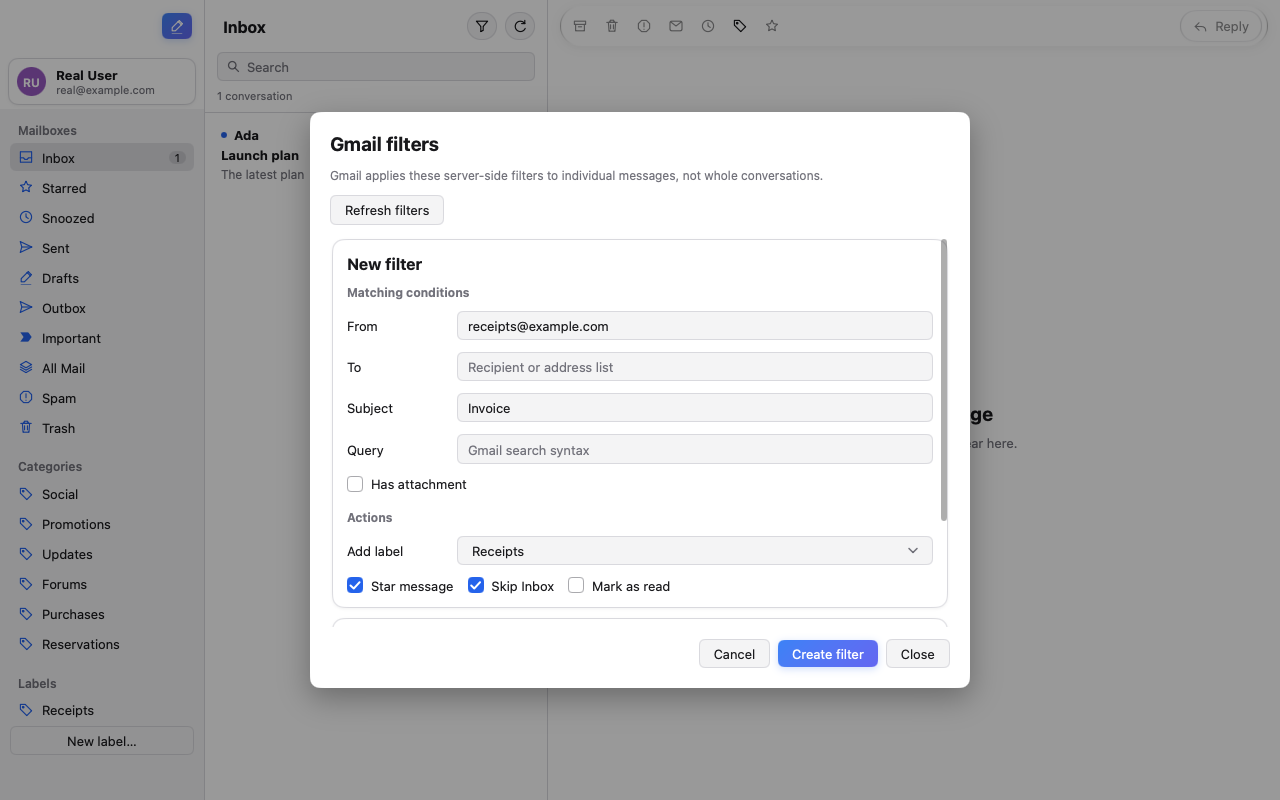
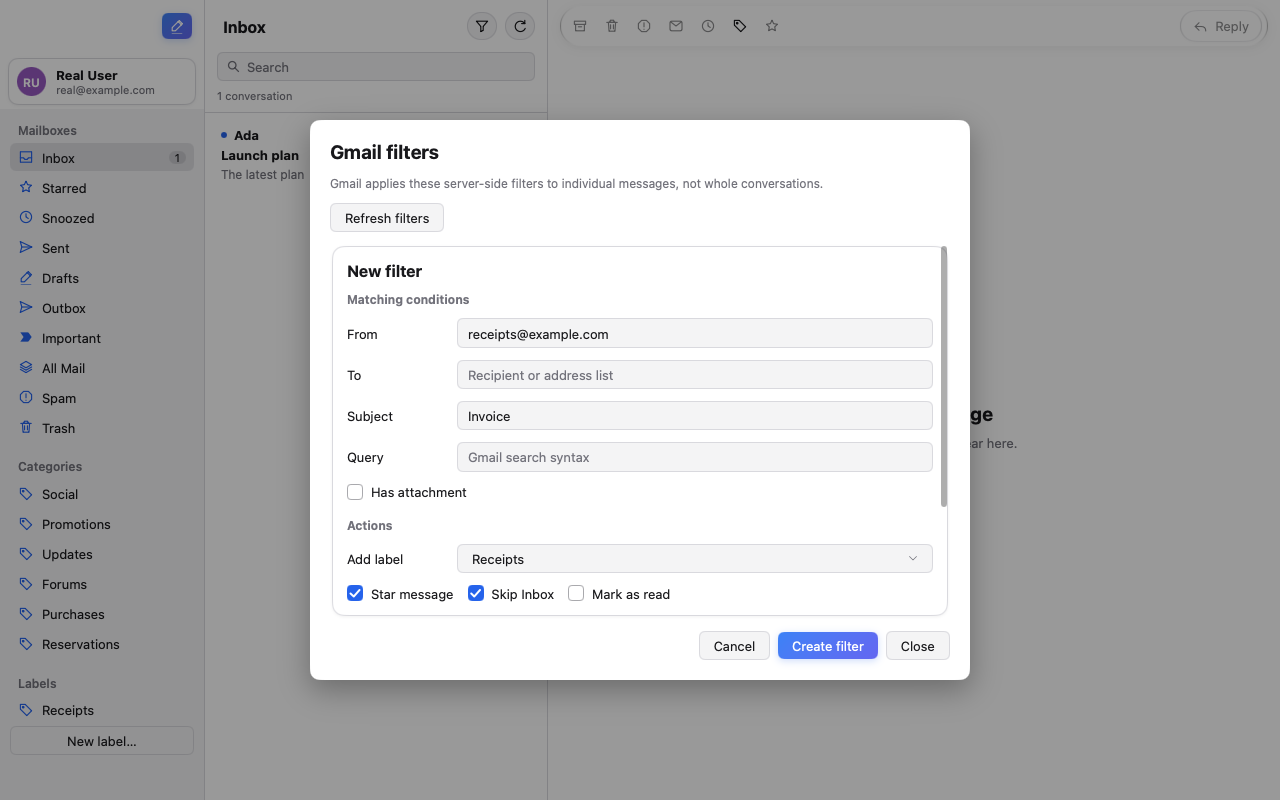
fix: harden filter dialog lifecycle

Changed region(s): [[0.25, 0.125, 0.75, 0.875], [0.25, 0.5, 0.3125, 0.5312]]

diff --git a/internal/app/settings_filters.go b/internal/app/settings_filters.go
@@ -42,6 +42,13 @@ type filterDialogState struct {
 	markRead      bool
 }
 
+type filterLabelOption struct {
+	id   string
+	name string
+}
+
+func (o filterLabelOption) String() string { return o.name }
+
 func (a *App) openFilters() {
 	if a.account.Demo || a.accountTransition != nil {
 		return
@@ -168,12 +175,19 @@ func (a *App) createFilter() {
 	s.busy = "create"
 	s.err = ""
 	s.reauthorize = false
-	a.schedule(func() {
-		created, err := manager.CreateFilter(context.Background(), mail.Filter{Criteria: criteria, Action: action})
-		if err == nil && created.ID == "" {
-			err = errCreatedFilterID
-		}
-		a.publish(func() {
+	var created mail.Filter
+	a.enqueueMutation(mutationJob{
+		service: a.service,
+		owner:   owner,
+		runFunc: func() error {
+			var err error
+			created, err = manager.CreateFilter(context.Background(), mail.Filter{Criteria: criteria, Action: action})
+			if err == nil && created.ID == "" {
+				err = errCreatedFilterID
+			}
+			return err
+		},
+		done: func(err error) {
 			if !a.filterDialogCurrent(s, owner, version) || s.busy != "create" {
 				return
 			}
@@ -189,7 +203,7 @@ func (a *App) createFilter() {
 			s.hasAttachment = false
 			s.labelID = ""
 			s.starred, s.skipInbox, s.markRead = false, false, false
-		})
+		},
 	})
 }
 
@@ -218,9 +232,13 @@ func (a *App) deleteFilter(id string) {
 	s.busy = busy
 	s.err = ""
 	s.reauthorize = false
-	a.schedule(func() {
-		err := manager.DeleteFilter(context.Background(), id)
-		a.publish(func() {
+	a.enqueueMutation(mutationJob{
+		service: a.service,
+		owner:   owner,
+		runFunc: func() error {
+			return manager.DeleteFilter(context.Background(), id)
+		},
+		done: func(err error) {
 			if !a.filterDialogCurrent(s, owner, version) || s.busy != busy {
 				return
 			}
@@ -237,7 +255,7 @@ func (a *App) deleteFilter(id string) {
 			}
 			s.filters = filters
 			s.deleteID = ""
-		})
+		},
 	})
 }
 
@@ -267,7 +285,8 @@ func (a *App) filterDialogView(c *ui.Context) {
 	s := a.filterDialog
 	t := c.Theme()
 	dismissed := ui.Modal(c, &s.open, func() {
-		ui.Column(c).Width(620).Gap(12).Children(func() {
+		// The scroll region must leave room for the footer at the minimum window height.
+		ui.Column(c).Width(620).Gap(12).MaxHeight(520).Children(func() {
 			ui.Text(c, locales.FilterDialogTitle()).FontSize(19).Bold()
 			ui.Text(c, locales.FilterDialogHint()).FontSize(12).LineHeight(1.4).TextColor(t.TextMuted)
 			disabled := a.filterControlsDisabled(s)
@@ -285,7 +304,7 @@ func (a *App) filterDialogView(c *ui.Context) {
 					ui.Text(c, locales.Processing()).FontSize(12).TextColor(t.TextMuted)
 				}
 			})
-			ui.Scroll(c.Key("filter-content")).Height(390).Children(func() {
+			ui.Scroll(c.Key("filter-content")).Height(390).Shrink(1).Children(func() {
 				ui.Column(c).Gap(10).Padding(2).Children(func() {
 					if s.loading && !s.loaded {
 						ui.Text(c, locales.LoadingFilters()).TextColor(t.TextMuted)
@@ -318,11 +337,14 @@ func (a *App) filterDialogView(c *ui.Context) {
 				if s.reauthorize {
 					ui.Button(c, locales.ReauthorizeAccount()).Disabled(disabled).OnClick(a.reauthorizeGmail)
 				}
-				ui.Button(c, locales.Close()).OnClick(func() { a.closeFilterDialog(s) })
+				ui.Button(c, locales.Close()).Disabled(s.busy != "").OnClick(func() { a.closeFilterDialog(s) })
 			})
 		})
 	}).Dismissed()
-	if dismissed || !s.open {
+	if dismissed && s.busy != "" {
+		s.open = true
+	}
+	if !s.open && s.busy == "" && a.filterDialog == s {
 		a.closeFilterDialog(s)
 	}
 }
@@ -363,26 +385,52 @@ func (a *App) filterCreateForm(c *ui.Context, s *filterDialogState, disabled boo
 		ui.Checkbox(c.Key("filter-has-attachment"), &s.hasAttachment, locales.FilterHasAttachment()).Disabled(disabled)
 		ui.Text(c, locales.FilterActions()).FontSize(12).Bold().TextColor(t.TextMuted).Padding(6, 0, 0, 0)
 		labels := assignableLabels(a.labels)
-		options := make([]string, 0, len(labels)+1)
-		options = append(options, locales.FilterNoLabel())
-		selection := locales.FilterNoLabel()
+		selection := filterLabelOption{name: locales.FilterNoLabel()}
 		for _, label := range labels {
-			options = append(options, label.Name)
 			if label.ID == s.labelID {
-				selection = label.Name
+				selection = filterLabelOption{id: label.ID, name: label.Name}
+				break
 			}
 		}
 		ui.Row(c).Gap(10).AlignItems(ui.Center).Children(func() {
 			ui.Text(c, locales.FilterAddLabel()).Width(100).Shrink(0)
-			selector := ui.Select(c.Key("filter-label"), &selection, options).Label(locales.FilterAddLabel()).Grow(1).Disabled(disabled)
-			if selector.Changed() {
-				s.labelID = ""
-				for _, label := range labels {
-					if label.Name == selection {
-						s.labelID = label.ID
-						break
-					}
+			selector := ui.SelectBase(c.Key("filter-label"), &selection)
+			trigger := selector.Trigger
+			face := t.Surface
+			if !disabled {
+				switch {
+				case trigger.Pressed():
+					face = t.SurfacePressed
+				case trigger.Hovered():
+					face = t.SurfaceHover
 				}
+			}
+			trigger.Label(locales.FilterAddLabel()).Padding(t.Space(1.5), t.Space(3.5)).Gap(t.Space(1.5)).Radius(t.Radius).Background(face).TextColor(t.Text).MinWidth(t.Space(35)).Grow(1).Disabled(disabled).Justify(ui.SpaceBetween).Children(func() {
+				ui.Text(c, selection.name).SingleLine()
+				ui.Icon(c, iconChevronDown).Size(10, 10).TextColor(t.TextMuted)
+			})
+			if t.Border.A > 0 {
+				trigger.Border(1, t.Border)
+			}
+			selector.Popup(func(panel ui.Element) {
+				panel.Margin(t.Space(1), 0, 0, 0).Padding(4).Radius(t.Radius+2).Background(t.Background).Shadow(0, 6, 20, 0, ui.RGBA(0, 0, 0, 0.18))
+				if t.Border.A > 0 {
+					panel.Border(1, t.Border)
+				}
+				option := func(value filterLabelOption) {
+					item := selector.Item(value).Padding(t.Space(1.5), t.Space(2.5)).Radius(t.Radius)
+					if item.Highlighted() {
+						item.Background(t.Accent).TextColor(t.AccentText)
+					}
+					item.Children(func() { ui.Text(c, value.name).SingleLine() })
+				}
+				option(filterLabelOption{name: locales.FilterNoLabel()})
+				for _, label := range labels {
+					option(filterLabelOption{id: label.ID, name: label.Name})
+				}
+			})
+			if selector.Trigger.Changed() {
+				s.labelID = selection.id
 			}
 		})
 		ui.Row(c).Gap(14).Children(func() {

diff --git a/internal/app/settings_filters_test.go b/internal/app/settings_filters_test.go
@@ -237,6 +237,129 @@ func TestSettingsFiltersCreateCapturesRealInputAndServerID(t *testing.T) {
 	}
 }
 
+func TestSettingsFiltersReauthorizeFitsMinimumWindow(t *testing.T) {
+	service := newFilterTestService()
+	service.createErr = &gmail.APIError{StatusCode: http.StatusForbidden, Reason: "insufficientPermissions", Message: "scope required"}
+	a := newFilterTestApp(service)
+	a.openFilters()
+	s := a.filterDialog
+	s.creating = true
+	s.from = "sender@example.com"
+	s.starred = true
+	a.createFilter()
+	if !s.reauthorize {
+		t.Fatal("permission fixture did not enable reauthorization")
+	}
+	tt := ui.NewTester(a.View, 1280, 600)
+	for _, name := range []string{"Reauthorize", "Create filter", "Close"} {
+		r, ok := tt.Find(name)
+		if !ok || r.W <= 0 || r.H <= 0 || r.Y < 0 || r.Y+r.H > 600 {
+			t.Fatalf("%s is outside the 600pt window: %+v", name, r)
+		}
+	}
+	if err := tt.Click("Close"); err != nil {
+		t.Fatal(err)
+	}
+	if a.filterDialog != nil {
+		t.Fatal("footer Close was not usable at the minimum height")
+	}
+}
+
+func TestSettingsFiltersLabelNamedNoLabelUsesID(t *testing.T) {
+	service := newFilterTestService()
+	service.labels = append(service.labels, mail.Label{ID: "Label_no_label", Name: "No label", Hide: true})
+	a := newFilterTestApp(service)
+	tt := openTestFilters(t, a)
+	if err := tt.Click("New filter"); err != nil {
+		t.Fatal(err)
+	}
+	if err := tt.Click("Sender or address list"); err != nil {
+		t.Fatal(err)
+	}
+	tt.Type("sender@example.com")
+	if err := tt.Click("No label"); err != nil {
+		t.Fatal(err)
+	}
+	tt.Key(0, ui.KeyDown)
+	tt.Key(0, ui.KeyEnter)
+	if a.filterDialog == nil {
+		t.Fatalf("choosing the same-named option closed the dialog: %q", tt.Texts())
+	}
+	if got := a.filterDialog.labelID; got != "Label_no_label" {
+		t.Fatalf("label named No label was not selected by ID: %q", got)
+	}
+	a.createFilter()
+	if len(service.created) != 1 || !equalStrings(service.created[0].Action.AddLabelIDs, []string{"Label_no_label"}) {
+		t.Fatalf("created action did not include the same-named label: %+v", service.created)
+	}
+}
+
+func TestSettingsFiltersCreateBusyCannotDismiss(t *testing.T) {
+	service := newFilterTestService()
+	a := newFilterTestApp(service)
+	a.openFilters()
+	s := a.filterDialog
+	s.creating = true
+	s.from = "sender@example.com"
+	s.starred = true
+	var jobs []func()
+	a.schedule = func(fn func()) { jobs = append(jobs, fn) }
+	a.createFilter()
+	tt := ui.NewTester(a.View, 1280, 800)
+	a.closeSettings()
+	if a.filterDialog != s || !s.open {
+		t.Fatal("busy create allowed Settings to close")
+	}
+	if err := tt.Click("Close"); err != nil {
+		t.Logf("busy Close is disabled: %v", err)
+	}
+	if a.filterDialog != s || !s.open {
+		t.Fatal("busy create allowed the footer Close action")
+	}
+	tt.Key(0, ui.KeyEscape)
+	tt.Frame()
+	if a.filterDialog != s || !s.open {
+		t.Fatal("busy create allowed Escape to dismiss the dialog")
+	}
+	if len(jobs) != 1 {
+		t.Fatalf("create jobs = %d, want 1", len(jobs))
+	}
+	jobs[0]()
+	tt.Frame()
+	if s.busy != "" || s.creating || len(s.filters) != 1 {
+		t.Fatalf("create did not complete after the dismissal checks: %+v", s)
+	}
+}
+
+func TestSettingsFilterCreateWaitsForAccountTransition(t *testing.T) {
+	h := newAccountTransitionHarness()
+	service := newFilterTestService()
+	a := h.app
+	a.service = service
+	a.account = service.account
+	a.storeAccount = service.account.Email
+	a.filterDialog = &filterDialogState{open: true, owner: service.account.Email, creating: true, from: "sender@example.com", starred: true}
+	a.createFilter()
+	a.transitionToService(h.target, h.target.account.Email, false, "")
+	if len(h.jobs) != 2 {
+		t.Fatalf("scheduled jobs = %d, want create and notification drain", len(h.jobs))
+	}
+	h.runJobAt(t, 1)
+	h.runUpdate(t)
+	if a.service != service || !a.mutationRunning {
+		t.Fatalf("account changed before Create completed: service=%p running=%v", a.service, a.mutationRunning)
+	}
+	h.runJobAt(t, 0)
+	if len(service.created) != 1 {
+		t.Fatalf("Create did not finish on the old account: %+v", service.created)
+	}
+	h.runUpdate(t)
+	h.finishTransition(t)
+	if a.service != h.target || len(service.created) != 1 {
+		t.Fatalf("transition completed without the old account Create: service=%p created=%d", a.service, len(service.created))
+	}
+}
+
 func TestSettingsFiltersValidationMakesNoWriteRequests(t *testing.T) {
 	service := newFilterTestService()
 	a := newFilterTestApp(service)

diff --git a/internal/app/settings.go b/internal/app/settings.go
@@ -165,6 +165,9 @@ func settingsField(c *ui.Context, label string, value *string, placeholder strin
 }
 
 func (a *App) closeSettings() {
+	if a.filterDialog != nil && a.filterDialog.busy != "" {
+		return
+	}
 	if a.settings != nil && a.settings.cancel != nil {
 		a.settings.cancel()
 		a.cancelAccountInboxRequest()

diff --git a/docs/design.md b/docs/design.md
@@ -77,7 +77,7 @@ The language selector stores locale codes but presents readable names in both it
 - Messages with attachments use a `multipart/mixed` outer part. Text and HTML bodies remain nested in `multipart/alternative`; messages without attachments retain their single-body or alternative form. Attachment filenames use RFC encoding, and binary data uses Base64 with lines capped at 76 columns.
 - The sidebar Labels section always provides label creation, including when no custom labels exist yet. Right-clicking a custom label opens Gmail-supported color choices and confirmed deletion; color changes use the serial mutation queue and persist with label metadata. Label creation uses `labelShow` for label-list visibility and `show` for message-list visibility, and waits for the server's real ID. Color choices use leading colored-circle glyphs, and colored sidebar labels show their Gmail background color as a circular swatch in the icon position; uncolored labels keep the tag icon.
 - The reader's native label menu only assigns existing custom labels, shows their current state, and keeps label edits, list membership, and undo consistent.
-- The active real Gmail account's Settings area loads server-side filters on demand without SQLite persistence. Gmail applies filters to individual messages rather than threads, assigns their IDs, and enforces the 1,000-filter limit. Existing rules retain readable From, To, Subject, Query, NegatedQuery, attachment, chat-exclusion, size, size-comparison, add/remove-label, and Forward fields. Creation requires at least one condition and one action, supports From, To, Subject, raw Query, and attachment conditions, and combines one existing custom label with Starred in `addLabelIds` and Skip Inbox with Mark read in `removeLabelIds`. Deletion is permanent and requires confirmation. Create is attempted at most once because a transient failure does not prove that Gmail did not create the rule; only the server's returned ID is installed. Failures preserve the form and loaded rules and restore the busy state, while 401/403 responses retain an explicit reauthorization action; successful reauthorization closes the dialog. Dialog identity, request sequence, service version, and normalized owner isolate late callbacks; Settings closure and account transitions invalidate the dialog. Demo and unsupported services cannot issue filter writes. Editing, history replay, local rule execution, forwarding creation, and inactive-account management are outside this version.
+- The active real Gmail account's Settings area loads server-side filters on demand without SQLite persistence. Gmail applies filters to individual messages rather than threads, assigns their IDs, and enforces the 1,000-filter limit. Existing rules retain readable From, To, Subject, Query, NegatedQuery, attachment, chat-exclusion, size, size-comparison, add/remove-label, and Forward fields. Creation requires at least one condition and one action, supports From, To, Subject, raw Query, and attachment conditions, and combines one existing custom label with Starred in `addLabelIds` and Skip Inbox with Mark read in `removeLabelIds`. Deletion is permanent and requires confirmation. Create is attempted at most once because a transient failure does not prove that Gmail did not create the rule; only the server's returned ID is installed. Failures preserve the form and loaded rules and restore the busy state, while 401/403 responses retain an explicit reauthorization action; successful reauthorization closes the dialog. Dialog identity, request sequence, service version, and normalized owner isolate late callbacks; Settings closure and account transitions invalidate the dialog. Create and Delete join the mutation FIFO, busy dialogs and Settings cannot be dismissed until completion, and account transitions drain the queue. The dialog caps content height so permission recovery remains reachable at the minimum window height. Label choices bind stable IDs while displaying label names, including a label named `No label`. Demo and unsupported services cannot issue filter writes. Editing, history replay, local rule execution, forwarding creation, and inactive-account management are outside this version.
 - Star, archive, trash, spam, and read/unread changes apply locally first and synchronize through a serial background queue. Failures are reconciled with Gmail, and undo restores the local snapshot before queuing the inverse request. Removing the current conversation opens the next one at the same position, or the previous one at the end; the reader clears only when no conversations remain.
 - Archive, Trash/Untrash, Spam/Not spam, Star, and Read/Unread resolve action targets in visible-list order; Archive shows the selection count. Mixed Star, Read/Unread, Trash, and Spam selections choose one target state from the first item and skip items already in that state, so Undo never changes items that did not need the action. Single-target actions keep their existing local and remote paths.
 - Batch mutations apply local updates once and store ordered undo items in one action. Removal follows the action: never for Star/Read, Inbox and All Inboxes for Archive, all targets for Trash/Spam, and post-action query membership for Untrash/Not spam. Reader replacement follows the original list's next surviving conversation, or the previous survivor when none follows; a reader outside the batch stays open. Undo restores all summaries in one list update and enqueues per-thread inverse requests through the same FIFO. Custom label assignment, replies, and forwards remain scoped to the reader.
@@ -133,5 +133,5 @@ Real Gmail acceptance requires a Google test account.
 - Snooze tests cover SQLite migration and restart, persistence before remote modification, offline view merging, wake completion, failed saves, rescheduling, stale timers, account removal, and cancellation failure. Local-change ordering, multi-account owner routing, post-quit cache rejection, superseded list loading, and pending Unified completion are covered with controlled schedules. Regressions reproduced stale local metadata, discarded Unified restorations, overwritten Inbox rows, and stranded loading before their fixes. English menu, wake-time rendering, Unsnooze, and the `b` shortcut are exercised with `ui.NewTester`; the English screenshot is `docs/screenshots/snoozed.png`. Real Gmail snooze timing and native notification behavior have not been exercised.
 - Remote image tests prove default blocking before any remote request, owner/message isolation, inline-source compatibility, global preference restoration, latest-write ordering, background-image detection, and English settings/message controls. No real remote image host is contacted.
 - Control styling tests prove the Remote images switch has a visible knob that moves to the expected side, toolbar Reply and icon menus have rounded hover feedback, and the unread filter keeps its Accent color transition. Label color menus use leading colored-circle glyphs, and sidebar label swatches are checked for exact center color and a circular outline. Regressions reproduced the missing knob, rectangular hover, missing menu swatch, and themed tag icon before their fixes. The updated English Settings and button-pressed captures were inspected; the Settings capture is `docs/screenshots/settings.png`.
-- Filter transport tests use fake HTTP to verify the singular `filter` response, every criteria/action field, empty lists, omitted empty request fields, server-assigned IDs, exact escaped Delete paths, empty-ID validation, responses without server IDs, preserved 403 errors, and exactly one POST after a transient Create failure. Rendered English tests cover loading, empty and advanced summaries, real form input and action mapping, zero-request validation, confirmed deletion, error and busy recovery, unsupported and Demo services, and stale responses after closure or account replacement. The initial scrolled Create action reproduced empty bounds and modal dismissal before moving to a fixed footer; unique control labels and bound-value assertions now verify the intended inputs. The English `docs/screenshots/filters.png` capture was rendered and inspected for complete form and footer controls. Real Gmail filter reads, writes, and incremental authorization have not been exercised.
+- Filter transport tests use fake HTTP to verify the singular `filter` response, every criteria/action field, empty lists, omitted empty request fields, server-assigned IDs, exact escaped Delete paths, empty-ID validation, responses without server IDs, preserved 403 errors, and exactly one POST after a transient Create failure. Rendered English tests cover loading, empty and advanced summaries, real form input and action mapping, zero-request validation, confirmed deletion, error and busy recovery, unsupported and Demo services, and stale responses after closure or account replacement. The initial scrolled Create action reproduced empty bounds and modal dismissal before moving to a fixed footer; unique control labels and bound-value assertions now verify the intended inputs. The English `docs/screenshots/filters.png` capture was rendered and inspected for complete form and footer controls. Additional regressions cover 600pt permission recovery, a real label named `No label`, busy dismissal, and account-transition draining of Create. The 600pt case produced empty Reauthorize bounds, the same-named label lost its ID, and direct scheduling allowed the transition to overtake the write before the fixes. Real Gmail filter reads, writes, and incremental authorization have not been exercised.
 - The 0.14.0 release workflow built, signed, notarized, and published the DMG, universal archive, three delta updates, and updater JSON. A real update installation has not been tested.
